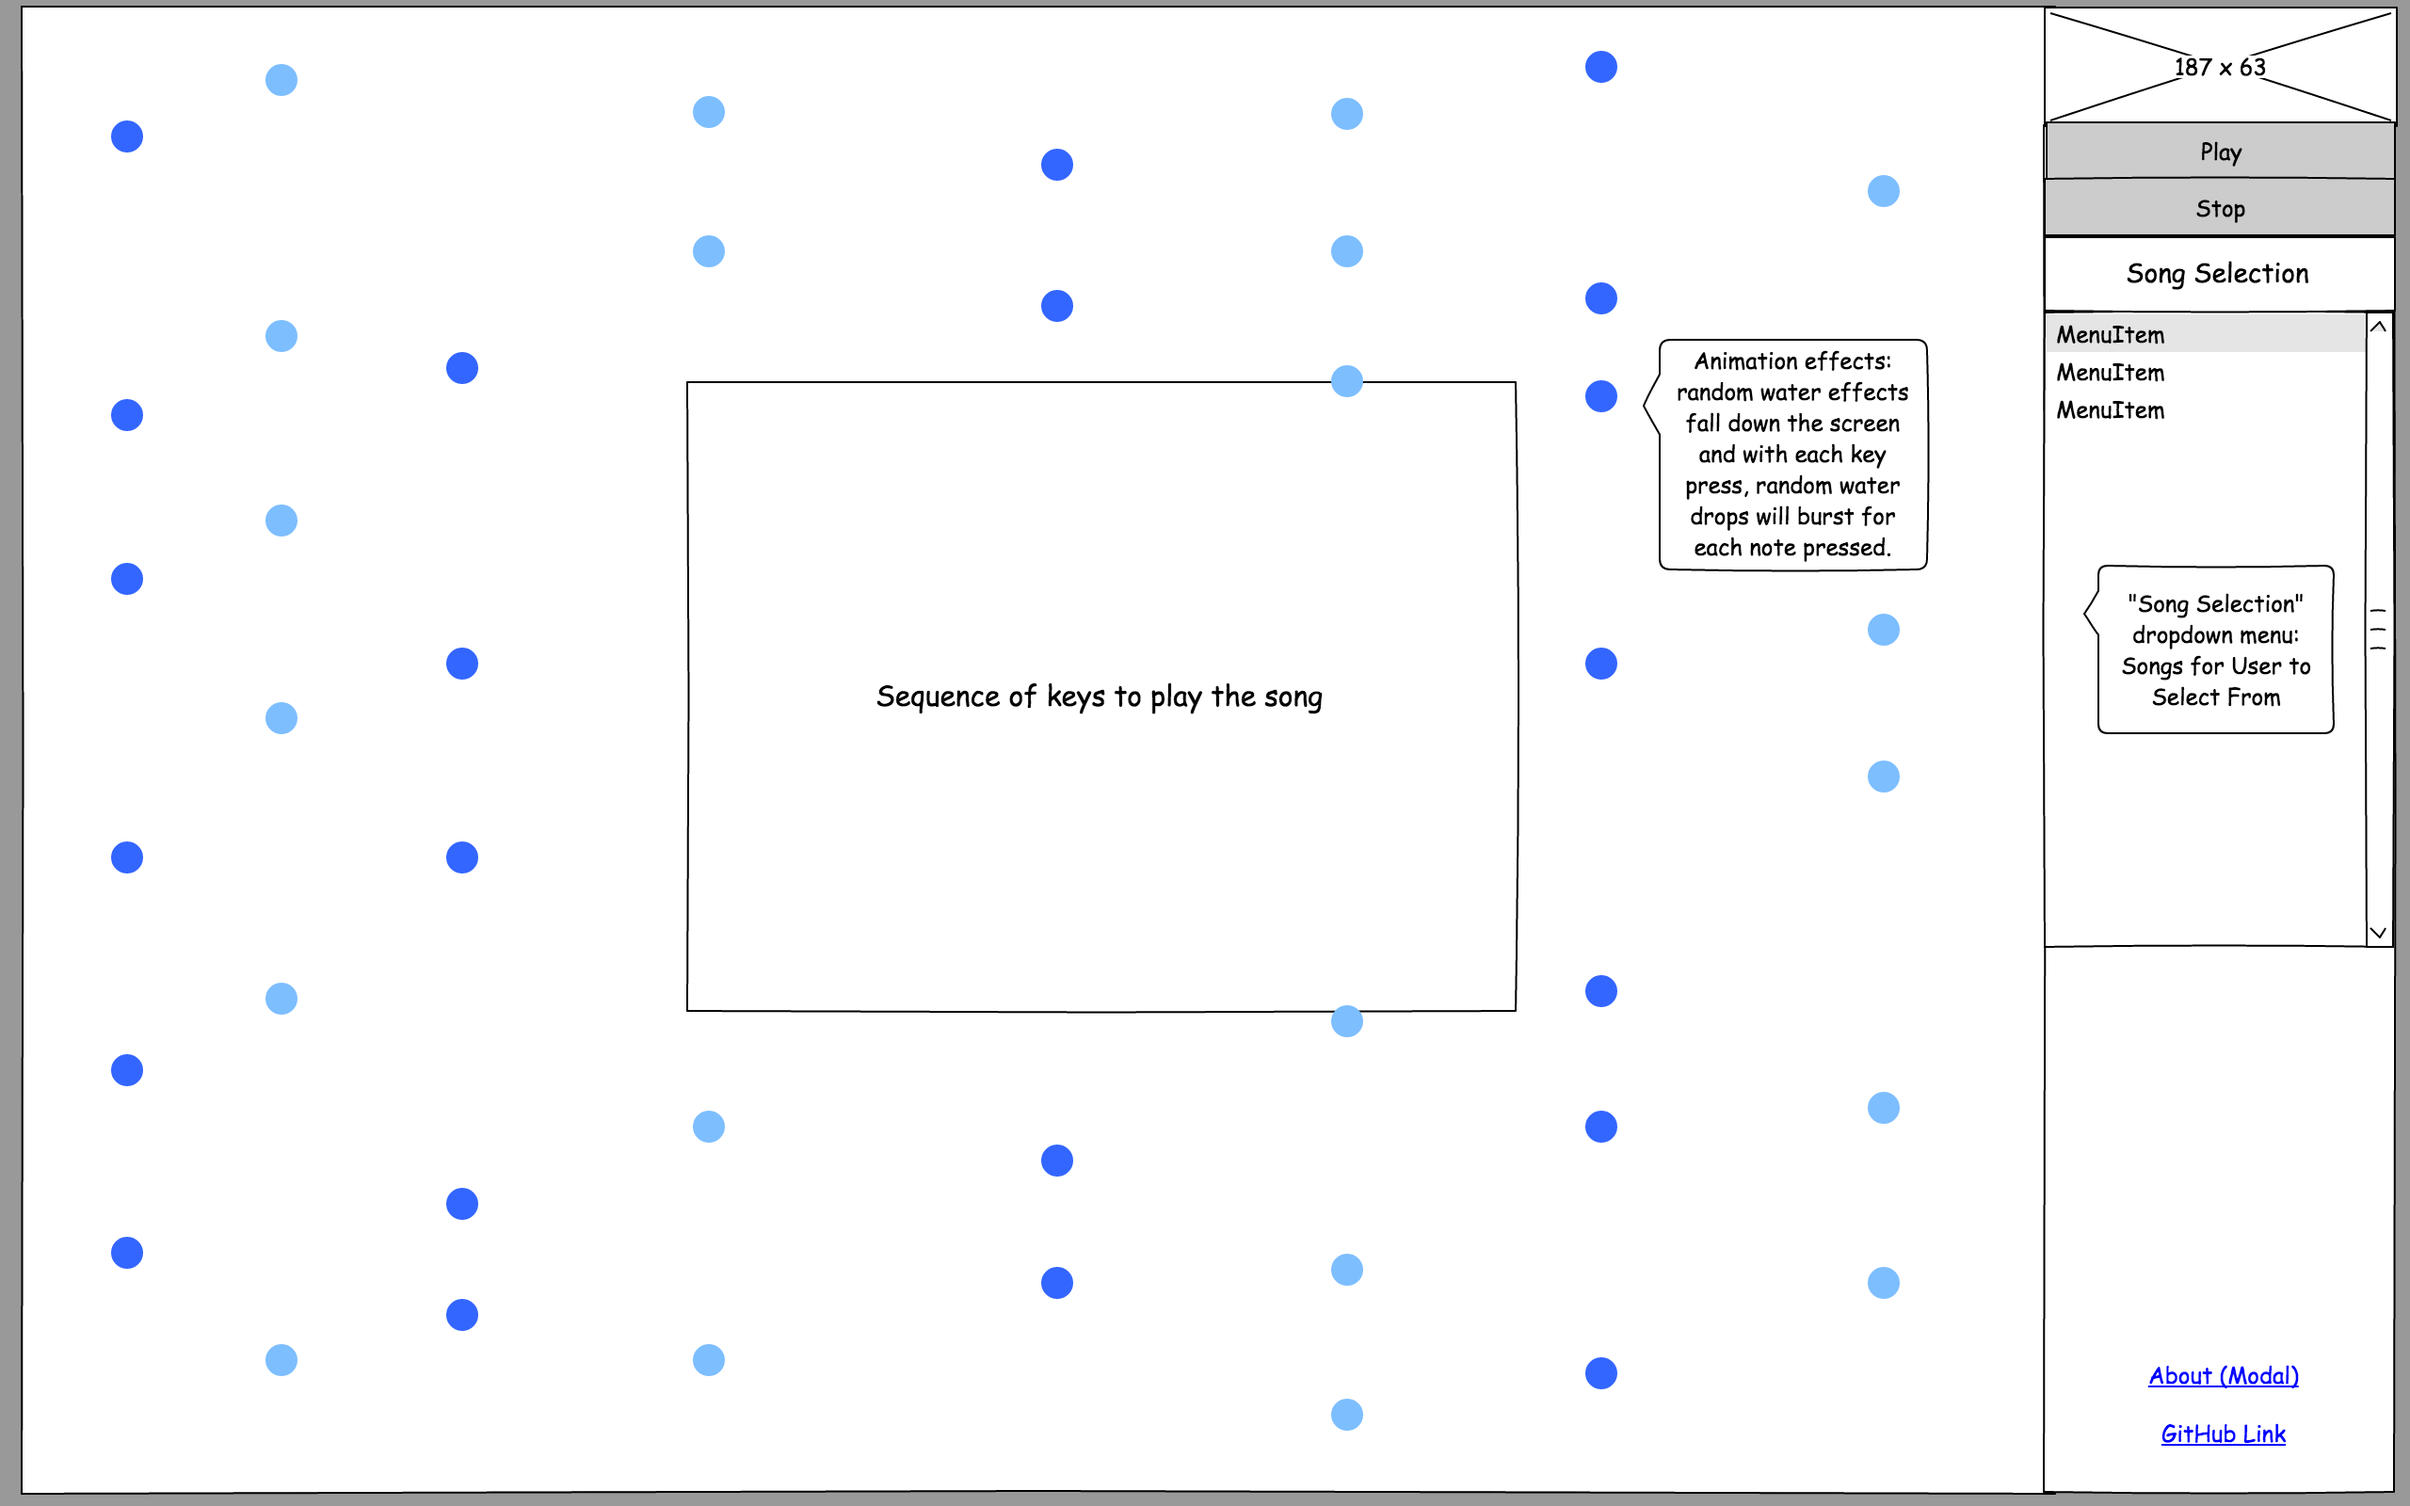
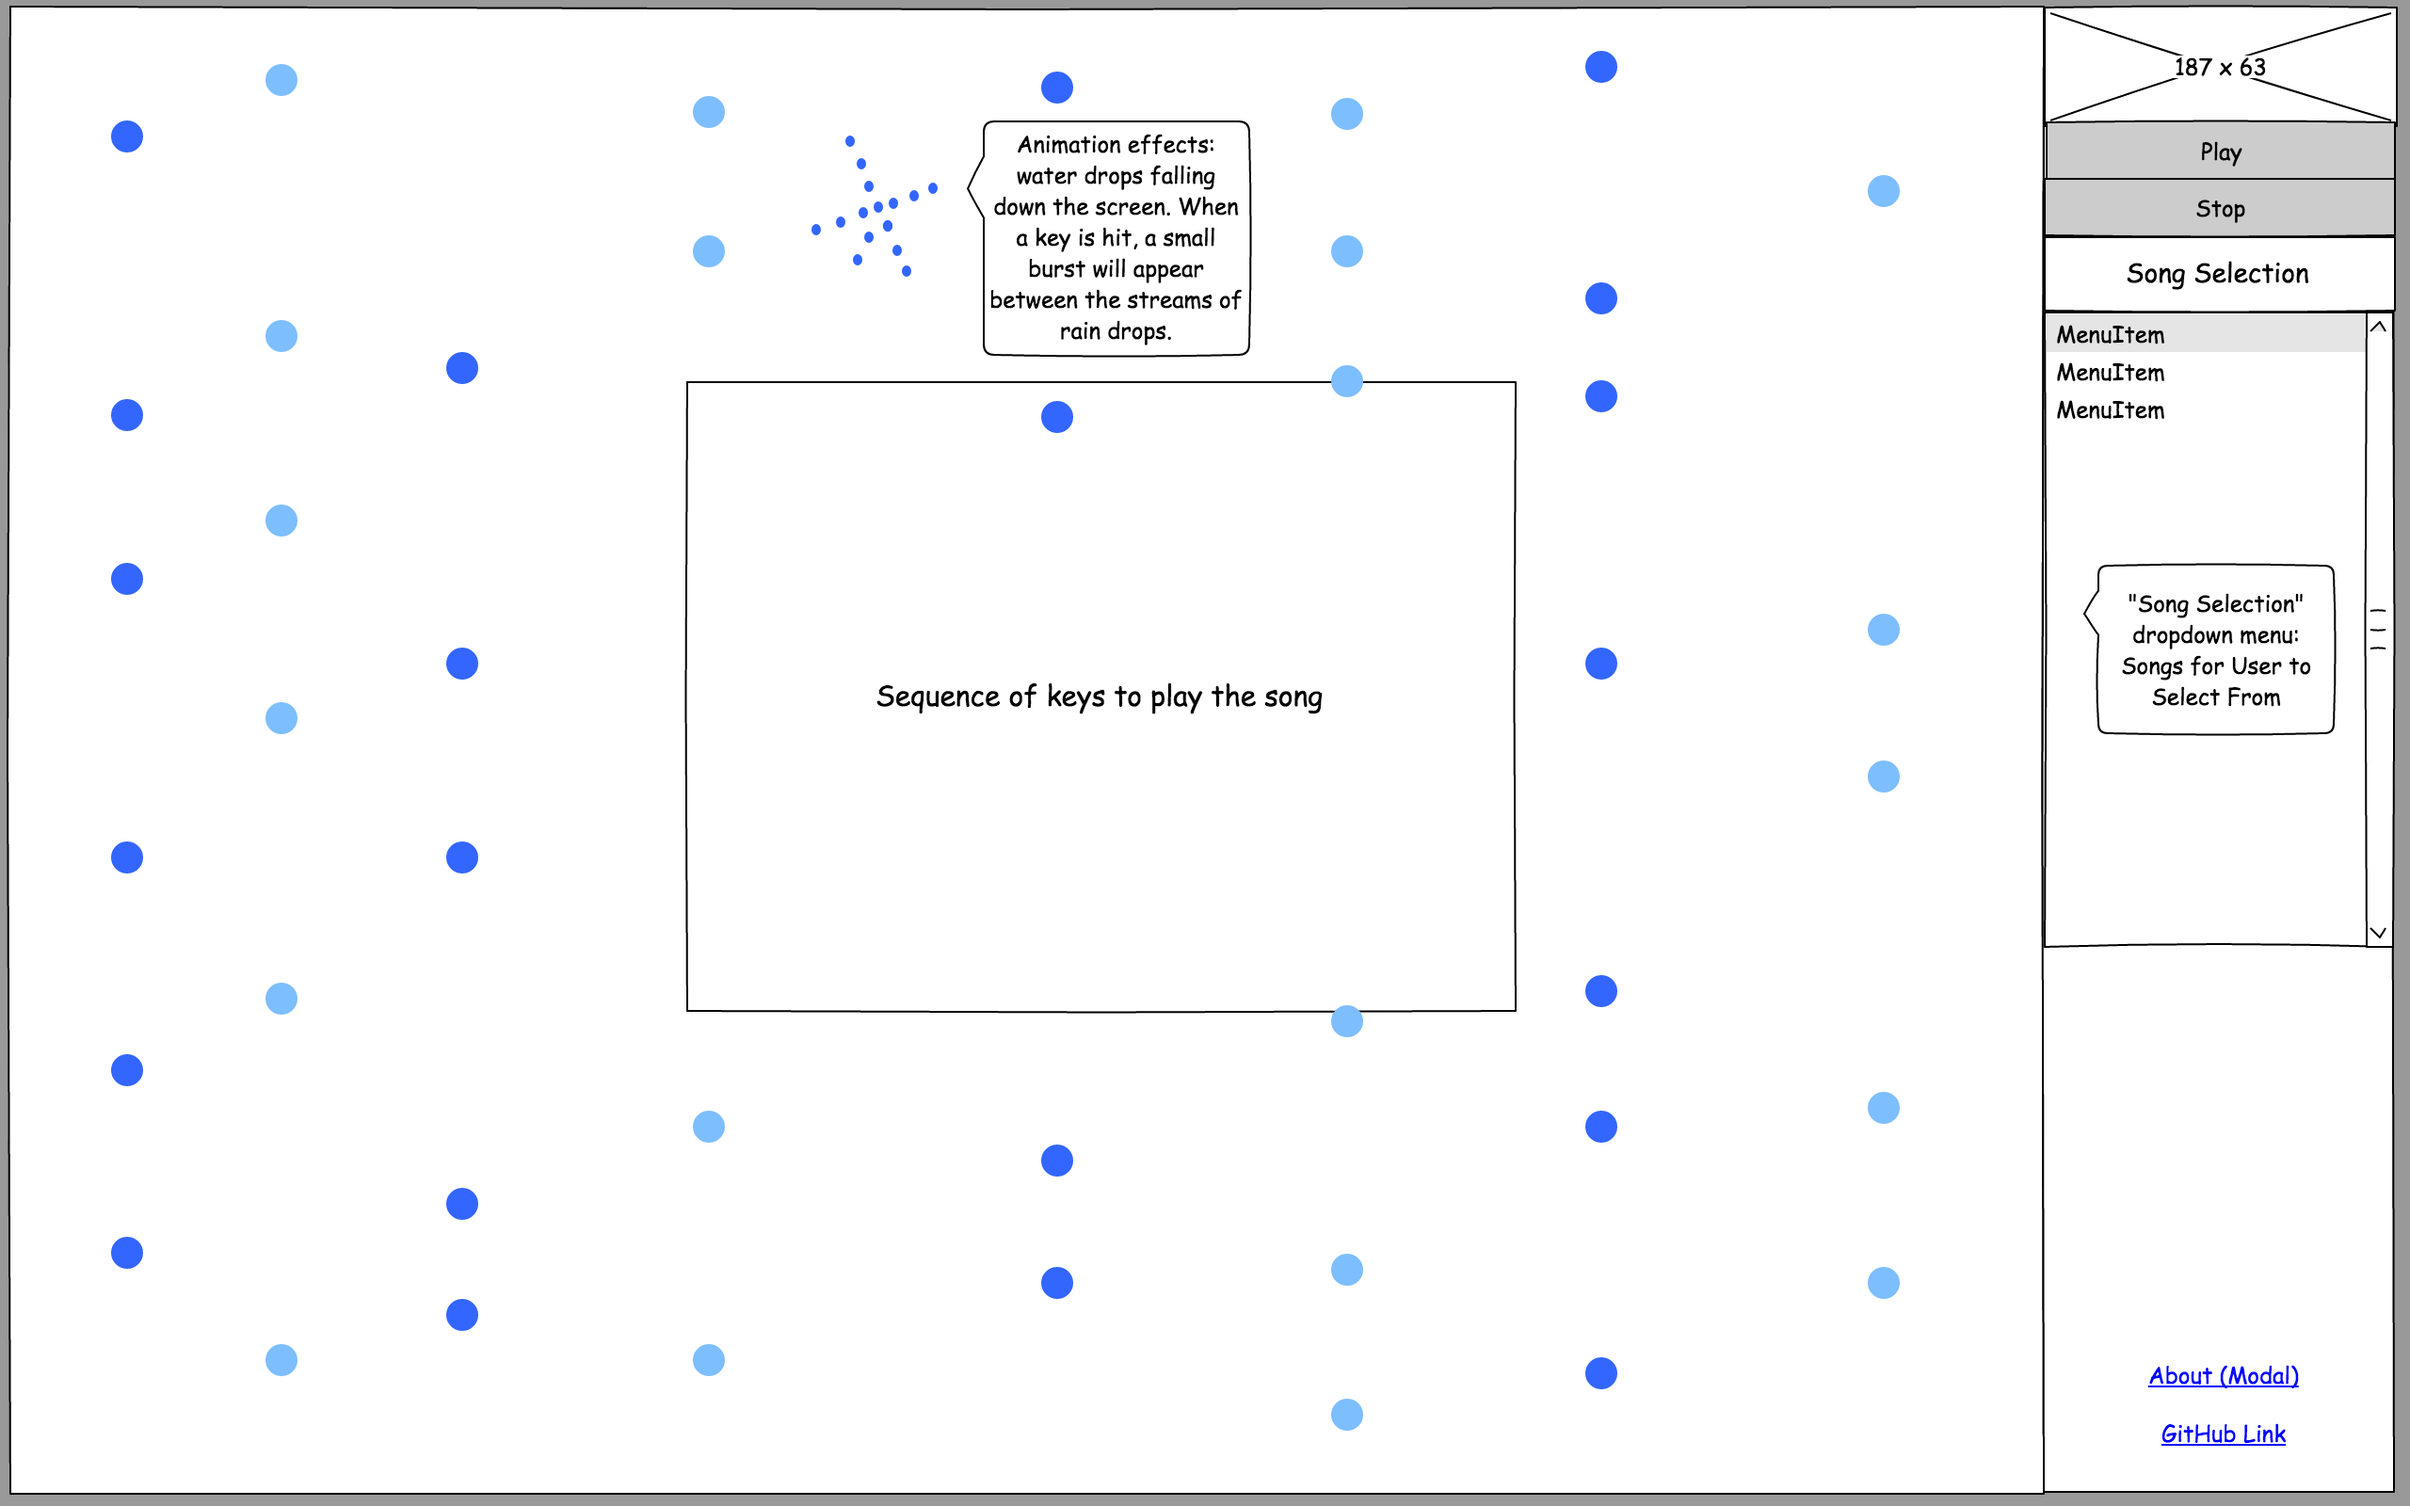
Update wireframe

diff --git a/development_README.md b/development_README.md
@@ -24,7 +24,8 @@ The site will be a single screen.
 to About (modal) and Github.
 - Main screen: Once a song is selected, the song keys will be displayed
 on the screen for the user to follow. The main screen will have falling
-dots that will randomly burst when keys are pressed.
+dots, and when a key is pressed, little star bursts will be interspersed
+between the falling dots.
 
 ![lullaby-wireframe](./lullaby.png)
 
